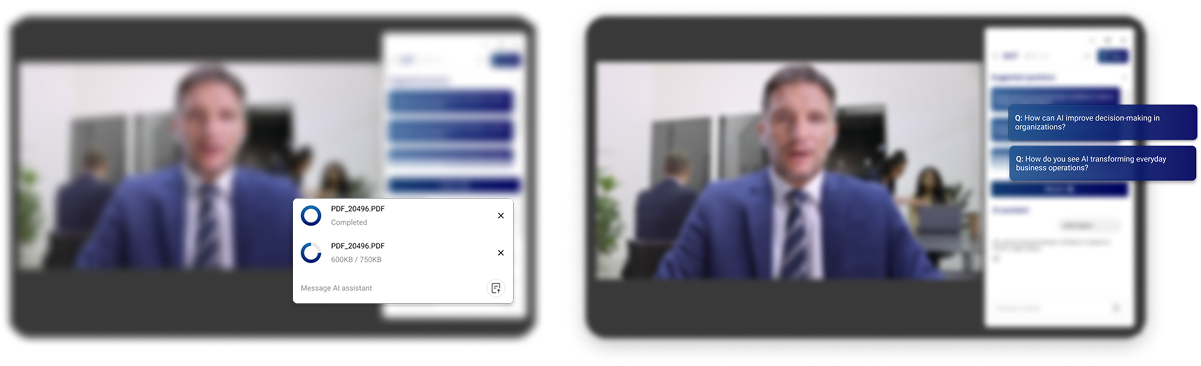
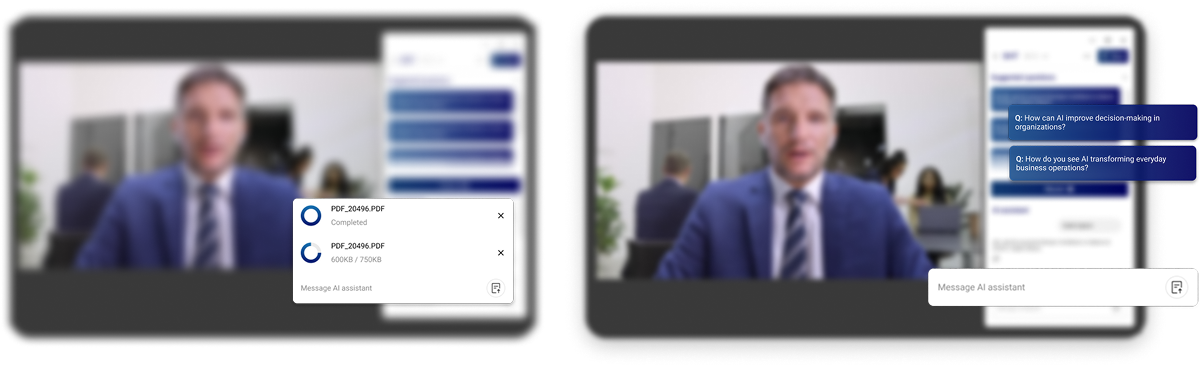
update

Changed region(s): [[0.9242, 0.7213, 1.0, 0.8415], [0.7702, 0.7213, 0.8626, 0.8415]]

diff --git a/src/components/OHTAITools.jsx b/src/components/OHTAITools.jsx
@@ -19,77 +19,78 @@ const OHTAITools = () => {
     },
     {
       icon: "arrows-right-left",
-      title: "Seamless Workflow Integration",
+      title: "Intelligent Chatbot Assistance",
       description:
-        "Easily integrates with existing business systems, streamlining document management and improving efficiency.",
+        "Ask questions about your uploaded files, and get instant, AI-driven responses for quick insights.",
     },
     {
       icon: "category",
-      title: "Smart Categorization & Organization",
+      title: "Multi-Type File Support",
       description:
-        "Automatically classifies, sorts, and processes documents, saving time and enhancing productivity.",
+        "Our AI engine supports multiple file formats for seamless processing and extraction.",
     },
   ];
 
   const salesCoachFeatures = [
     {
       icon: "bulb",
-      title: "AI-Driven Innovation",
+      title: "Realistic AI Sales Conversations",
       description:
-        "Harness the power of AI to drive innovation, transforming your business operations and enhancing decision-making processes.",
+        "Engage in lifelike sales calls with AI, practicing responses, handling objections, and refining your pitch in a risk-free environment.",
     },
     {
       icon: "chart-dots",
-      title: "Data-Driven Project Management",
+      title: "Performance Ranking & Feedback",
       description:
-        "Leverage AI insights to optimize project outcomes and ensure timely, data-backed decision-making at every step.",
+        "Get a detailed evaluation after each session, with a ranking based on conversation flow, persuasion skills, and closing techniques.",
     },
     {
       icon: "plug-connected",
-      title: "Seamless Integration",
+      title: "Body Language Analysis",
       description:
-        "Easily integrate AI into your existing systems, improving efficiency and streamlining processes for maximum impact.",
+        "AI evaluates your gestures, posture, and facial expressions to provide feedback on your nonverbal communication.",
     },
   ];
 
   const knowledgeManagementFeatures = [
     {
       icon: "bulb",
-      title: "AI-Driven Innovation",
+      title: "Instant AI Assistance",
       description:
-        "Harness the power of AI to drive innovation, transforming your business operations and enhancing decision-making processes.",
+        "Ask questions about your files, and get precise, AI-driven responses in seconds.",
     },
     {
       icon: "chart-dots",
-      title: "Data-Driven Project Management",
+      title: "Smart Data Extraction",
       description:
-        "Leverage AI insights to optimize project outcomes and ensure timely, data-backed decision-making at every step.",
+        "Automatically process and extract key insights from sales documents for quick access.",
     },
     {
       icon: "plug-connected",
-      title: "Seamless Integration",
+      title: "Multilingual Support",
       description:
-        "Easily integrate AI into your existing systems, improving efficiency and streamlining processes for maximum impact.",
+        "Process and extract information from documents in multiple languages with AI-powered accuracy. Seamlessly handle diverse files without language barriers.",
     },
   ];
 
   const beamCounterFeatures = [
     {
       icon: "camera",
-      title: "Metal Detection via Camera & AI",
+      title: "AI-Powered Beam Detection",
       description:
-        "Uses computer vision and AI to recognize and count metal beams, rebars, or other construction materials.",
+        "Automatically detects and counts beams in any uploaded image with high accuracy.",
     },
     {
       icon: "magnet",
-      title: "Magnetic Sensor Support",
-      description: "Uses the phone's magnetometer to detect metal presence",
+      title: "Instant Results",
+      description:
+        "Get fast and precise beam counts in seconds—no manual counting needed.",
     },
     {
       icon: "list-numbers",
-      title: "Auto Counting & Categorization",
+      title: "Smart Image Analysis",
       description:
-        "Differentiates between types of metal (beams, rebars, etc.) and provides an automatic count.",
+        "Processes various image types and adjusts to different angles and lighting for reliable detection.",
     },
   ];
 
@@ -111,7 +112,7 @@ const OHTAITools = () => {
         url={toolUrls.zoomAssistant.url}
         id="zoom-assistant"
         title="Zoom AI assistant"
-        description="The Zoom AI assistant is a zoom plugin includes an AI chat within Zoom meetings, providing real-time interaction along with AI-generated suggested questions relevant to the discussion."
+        description="Enhance your interviews with real-time AI-suggested questions. Our assistant listens, analyzes, and provides smart follow-ups. Upload documents for tailored questions, and use the built-in chatbot for instant insights. Stay prepared and make every conversation count!"
       >
         <ScreenshotGallery images={zoomScreenshots} />
       </ToolSection>
@@ -122,10 +123,11 @@ const OHTAITools = () => {
         url={toolUrls.idp.url}
         description={
           <>
-            The <strong>Intelligent Document Processing (IDP)</strong> system
-            automates data extraction, classification, and workflow integration,
-            reducing manual effort and improving efficiency for seamless
-            document management.
+            Upload any file, and IDP’s AI instantly classifies it—whether it's a
+            driver’s license, ID, or document. Need details? Extract key
+            information in seconds. Have questions? Our built-in chatbot
+            provides instant answers based on your file. Streamline your
+            document management with smart, AI-driven processing.
           </>
         }
       >
@@ -148,7 +150,7 @@ const OHTAITools = () => {
         url={toolUrls.salesCoach.url}
         id="sales-coach"
         title="Sales Coach"
-        description="The Zoom Landing Page project includes an AI chat within Zoom meetings, providing real-time interaction along with AI-generated suggested questions relevant to the discussion."
+        description="Practice sales calls with AI just like you’re speaking to a real client. Sales Coach analyzes your conversation, evaluates your pitch, and even assesses your body language. At the end of each session, receive a performance ranking with insights to help you close more deals. Elevate your sales skills with smart, real-time coaching!"
       >
         <FeatureCardGrid features={salesCoachFeatures} />
       </ToolSection>
@@ -158,7 +160,7 @@ const OHTAITools = () => {
         bgColor="bg-[#FFE8A138]"
         id="knowledge-management"
         title="Knowledge Management"
-        description="The Zoom Landing Page project includes an AI chat within Zoom meetings, providing real-time interaction along with AI-generated suggested questions relevant to the discussion."
+        description="Upload your sales documents, and let AI do the rest. Knowledge managment processes your PDFs, making them fully searchable. Simply type a question in the search bar, and the AI will instantly retrieve the most relevant answers. No more manual searching—get the insights you need in seconds!"
       >
         <FeatureCardGrid features={knowledgeManagementFeatures} />
       </ToolSection>
@@ -167,7 +169,7 @@ const OHTAITools = () => {
         url={toolUrls.beamCounter.url}
         id="beam-counter"
         title="Beam counter"
-        description="The beam counter app uses AI to detect and count metal beams, improving accuracy and efficiency in construction management."
+        description="Upload an image, and let AI do the counting for you. Beam Counter analyzes your photo, accurately detects beams, and instantly displays the total count. No more manual calculations—get fast, precise results with AI-powered image processing!"
       >
         <FeatureCardGrid features={beamCounterFeatures} />
       </ToolSection>

diff --git a/src/components/K-M/KnowledgeHome.jsx b/src/components/K-M/KnowledgeHome.jsx
@@ -16,6 +16,7 @@ import * as React from "react";
 import { useState, useCallback } from "react";
 import { motion } from "motion/react";
 import { useDropzone } from "react-dropzone";
+import axios from "axios";
 
 // PDF Icon Component
 const PdfIcon = () => (
@@ -77,11 +78,37 @@ const LogoSection = () => (
 // File Upload Section Component
 const UploadSection = () => {
   const [file, setFile] = useState(null);
+  const [uploading, setUploading] = useState(false);
+  const [uploadedFileId, setUploadedFileId] = useState(null);
+  const [error, setError] = useState(null);
 
-  const onDrop = useCallback((acceptedFiles) => {
+  const onDrop = useCallback(async (acceptedFiles) => {
     const uploadedFile = acceptedFiles[0];
-    if (uploadedFile) {
-      setFile(uploadedFile);
+    if (!uploadedFile) return;
+
+    setFile(uploadedFile);
+    setUploading(true);
+    setError(null);
+
+    try {
+      const formData = new FormData();
+      formData.append("file", uploadedFile);
+
+      const response = await axios.post(
+        "http://18.220.79.100:5002/upload",
+        formData,
+        {
+          headers: { "Content-Type": "multipart/form-data" },
+        }
+      );
+
+      if (response.status === 200) {
+        setUploadedFileId(response.data.file_id || "uploaded");
+      }
+    } catch (err) {
+      setError("Upload failed. Please try again.");
+    } finally {
+      setUploading(false);
     }
   }, []);
 
@@ -94,7 +121,6 @@ const UploadSection = () => {
   return (
     <section className="mt-16 max-sm:mt-8">
       <div className="flex gap-4 items-center mb-8">
-        <PdfIcon />
         <h2 className="text-lg font-medium text-zinc-700">
           Upload PDF files for Q&A
         </h2>
@@ -106,25 +132,30 @@ const UploadSection = () => {
         }`}
       >
         <input {...getInputProps()} />
-        <div className="flex flex-col gap-2 items-center">
-          <p className="text-base text-center text-black">
-            {file ? file.name : "Drag and drop files here"}
-          </p>
-          <p className="text-xs text-stone-500">Supported formats: PDF</p>
-          <button className="px-4 py-2.5 mt-5 text-xs font-medium text-white bg-gray-600 rounded cursor-pointer border-[none]">
-            Browse file
-          </button>
-        </div>
+        <p className="text-base text-center text-black">
+          {file ? file.name : "Drag and drop files here"}
+        </p>
+        <button className="px-4 py-2.5 mt-5 text-xs font-medium text-white bg-gray-600 rounded cursor-pointer border-[none]">
+          Browse file
+        </button>
       </div>
+
+      {/* File Info Bar */}
       {file && (
-        <div className="mt-4 p-4 border rounded bg-gray-50 w-[262px] max-md:w-full">
-          <h3 className="text-sm font-medium">File Details:</h3>
-          <p className="text-xs text-zinc-700">Name: {file.name}</p>
-          <p className="text-xs text-zinc-700">
-            Size: {(file.size / 1024).toFixed(2)} KB
-          </p>
-          <p className="text-xs text-zinc-700">Type: {file.type}</p>
+        <div className="mt-4 flex items-center bg-gray-100 p-3 rounded-lg shadow-sm">
+          <PdfIcon />
+          <div className="ml-3">
+            <p className="text-sm font-medium text-black">{file.name}</p>
+            <p className="text-xs text-zinc-600">
+              {Math.round(file.size / 1024)} KB - PDF Document
+            </p>
+          </div>
         </div>
+      )}
+      {uploading && <p className="mt-2 text-blue-500">Uploading...</p>}
+      {error && <p className="mt-2 text-red-500">{error}</p>}
+      {uploadedFileId && (
+        <p className="mt-2 text-green-500">Upload successful!</p>
       )}
     </section>
   );
@@ -143,7 +174,7 @@ const GuidedTourDropdown = () => {
   const [isOpen, setIsOpen] = useState(true);
 
   return (
-    <div className="w-[700px] max-md:w-full rounded-lg border border-solid border-neutral-400 cursor-pointer">
+    <div className="w-[700px] max-md:w-full rounded-lg border border-solid border-neutral-400 mb-3 mt-1">
       {/* Toggle Button */}
       <div
         className="flex justify-between items-center px-4 py-3.5 h-11 text-xs text-black "
@@ -188,43 +219,59 @@ const GuidedTourDropdown = () => {
 // Question Section Component
 const QuestionSection = () => {
   const [question, setQuestion] = useState("");
-  const [canAsk, setCanAsk] = useState(false);
+  const [answers, setAnswers] = useState([]);
+  const [loading, setLoading] = useState(false);
+  const [error, setError] = useState(null);
 
-  const handleQuestionChange = useCallback((e) => {
-    setQuestion(e.target.value);
-    setCanAsk(e.target.value.trim().length > 0);
-  }, []);
+  const handleAskQuestion = async () => {
+    if (!question.trim()) return;
 
-  const handleAskQuestion = useCallback(() => {
-    if (canAsk) {
-      // Handle question submission logic here
-      console.log("Question submitted:", question);
+    setLoading(true);
+    setError(null);
+
+    try {
+      const response = await axios.post("http://18.220.79.100:5002/ask", {
+        question,
+      });
+
+      setAnswers((prev) => [
+        ...prev,
+        { question, answer: response.data.message },
+      ]);
+      setQuestion("");
+    } catch (err) {
+      setError("Failed to fetch answer. Please try again.");
+    } finally {
+      setLoading(false);
     }
-  }, [canAsk, question]);
+  };
 
   return (
     <section className="w-[700px] max-md:w-full">
-      <label
-        htmlFor="question-textarea"
-        className="mb-4 text-base text-neutral-700 block"
-      >
+      <label className="mb-4 text-base text-neutral-700 block">
         Ask a Question related to your document:
       </label>
+      {error && <p className="mt-2 text-red-500">{error}</p>}
+      <div className="my-4 p-4 border rounded bg-gray-50 max-h-96 min-h-96 overflow-y-auto">
+        {answers.map((entry, index) => (
+          <div key={index} className="mb-4">
+            <h3 className="text-sm font-medium">Q: {entry.question}</h3>
+            <p className="text-xs text-zinc-700">A: {entry.answer}</p>
+          </div>
+        ))}
+      </div>
       <textarea
-        id="question-textarea"
-        className="mb-5 w-full rounded-xl border border-solid bg-stone-50 border-zinc-300 h-[158px] max-sm:h-[120px] p-3 resize-none"
+        className="mb-5 w-full rounded-xl border border-solid bg-stone-50 border-zinc-300 h-[158px] p-3 resize-none"
         value={question}
-        onChange={handleQuestionChange}
+        onChange={(e) => setQuestion(e.target.value)}
         placeholder="Type your question here..."
       />
       <button
-        className={`px-4 py-2.5 text-xs font-medium text-white bg-gray-600 rounded cursor-pointer border-[none] ${
-          canAsk ? "" : "opacity-50"
-        }`}
+        className="px-4 py-2.5 text-xs font-medium text-white bg-gray-600 rounded cursor-pointer border-[none]"
         onClick={handleAskQuestion}
-        disabled={!canAsk}
+        disabled={!question}
       >
-        Ask
+        {loading ? "Asking..." : "Ask"}
       </button>
     </section>
   );
@@ -233,7 +280,7 @@ const QuestionSection = () => {
 // Main Content Component
 const MainContent = () => (
   <main className="flex-1 p-10 max-md:p-5">
-    <h2 className="mx-0 mt-16 mb-8 text-3xl font-medium text-black max-sm:text-2xl max-sm:text-center">
+    <h2 className="mb-auto text-3xl font-medium text-black max-sm:text-2xl max-sm:text-center">
       Fast AI Question Answer Powered by OHT
     </h2>
     <QuestionSection />
@@ -246,7 +293,9 @@ function DocuWhiz() {
     <>
       <div className="flex min-h-screen bg-white max-md:flex-col">
         <Sidebar />
-        <MainContent />
+        <div className="h-full mt-auto">
+          <MainContent />
+        </div>
         <GuidedTourDropdown />
       </div>
     </>

diff --git a/src/components/Footer.jsx b/src/components/Footer.jsx
@@ -2,8 +2,9 @@ import React from "react";
 
 const Footer = () => {
   return (
-    <footer className="p-5 text-lg leading-7 text-center text-white bg-[#231f20]">
+    <footer className="p-5 text-lg leading-7 text-center text-white bg-[#231f20] flex justify-between">
       Copyright 2025
+      <p className="text-lg underline">Contact Us</p>
     </footer>
   );
 };

diff --git a/src/components/Header.jsx b/src/components/Header.jsx
@@ -64,9 +64,6 @@ const Header = () => {
             {item}
           </button>
         ))}
-        <button className="px-6 py-3 text-base font-semibold tracking-wider leading-6 text-white bg-[#f02432] rounded-lg cursor-pointer">
-          Contact Us
-        </button>
       </nav>
 
       {/* Mobile menu button - hidden on desktop */}
